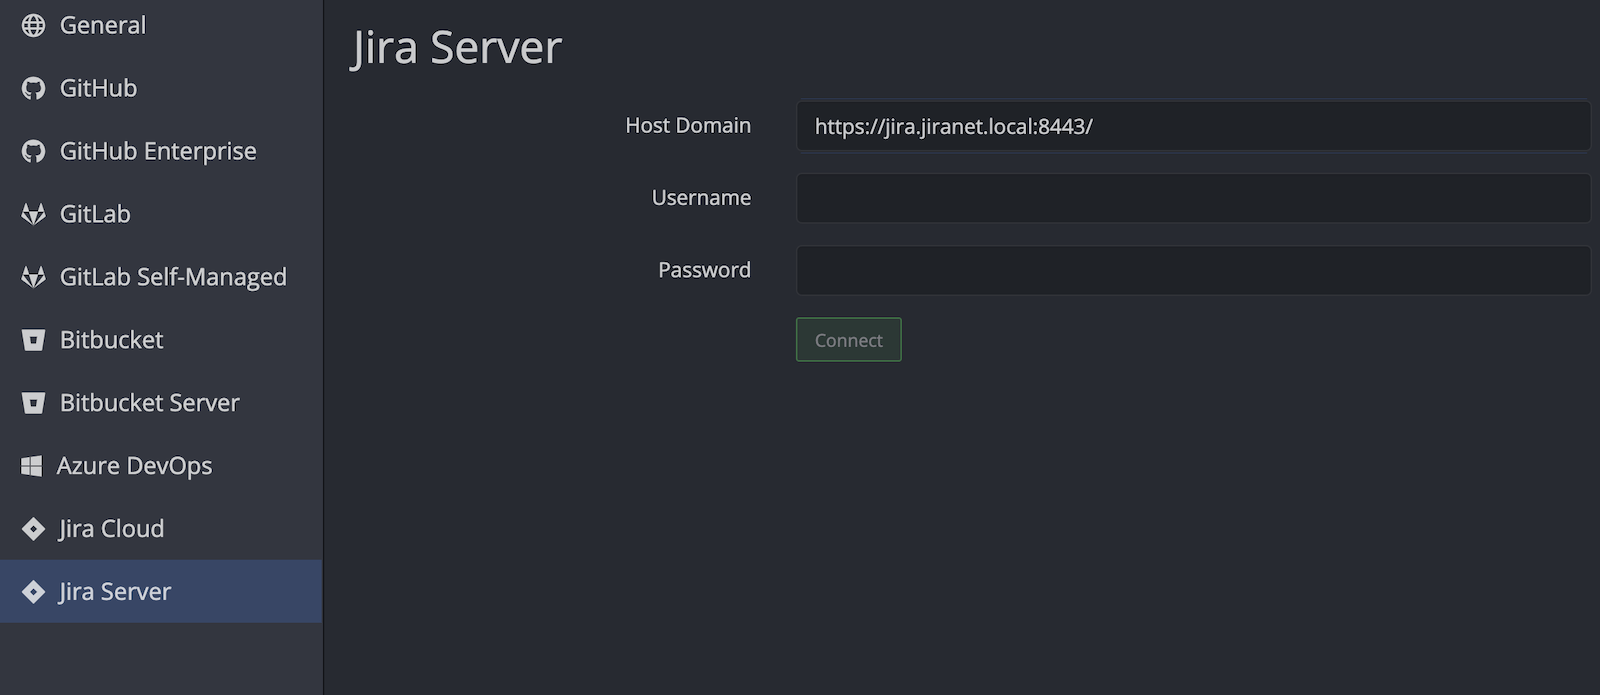
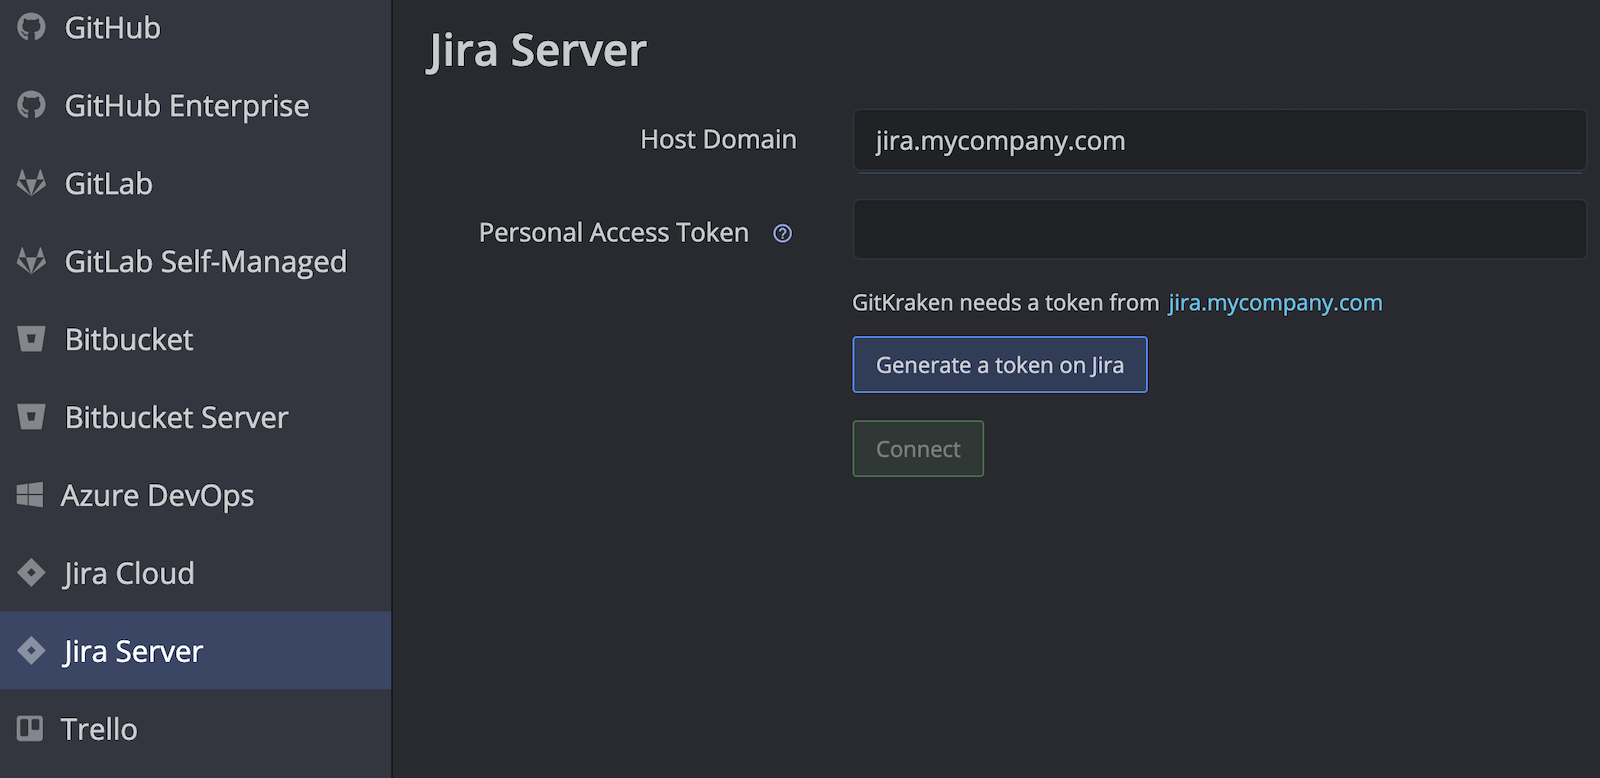
Docs update for 8.9
- Update Jira connection to use PAT
- Include section for Team Overview (unfinished)

diff --git a/gitkraken-client/workspaces.md b/gitkraken-client/workspaces.md
@@ -117,4 +117,39 @@ Instead of hunting for these pieces of information separately, you can get a hol
     </p>
 </div>
 
+## Team Overview
 
+On a [Team workspace](/gitkraken-client/workspaces/#workspace-type), there is now a Teams Workspace section. This view shows all pull requests and issues for the repositories in your Workspace - giving you a high level view of your teams' coding efforts. 
+
+<img src="/wp-content/uploads/team-overview.png" srcset="/wp-content/uploads/team-overview@2x.png" class="img-bordered img-responsive center">
+
+### Team Pull Requests 
+
+The Team Pull Requests sections has the following columns:
+
+* Last Updated 
+* PR title with link to open the pull request in the hosting provider
+* PR Author
+* Repo name with link to open the repo in GitKraken Client
+* Review status
+* PR status
+  * Shows status for “Draft” or “At Risk” pull requests
+* Checks 
+* Lines added/removed
+* PR branch
+  * Double click to check out directly in GitKraken Client
+* GitHub.com Workspaces Only:
+  * Shortcut to open the Pull Request Panel
+  * Filter by assignee or author
+
+### Team Issues 
+
+Team Issues will show all GitHub Issues, GitLab Issues, Jira Cloud Issues, Jira Server, or Trello cards associated with the repo. 
+
+<img src="/wp-content/uploads/team-issues-switch.png" srcset="/wp-content/uploads/team-issues-switch@2x.png" class="img-bordered img-responsive center">
+
+<div class='callout callout--warning'>
+    <p>
+        <strong>Note:</strong> This Team Overview section is in Preview mode, and we’d love to hear your thoughts and feedback. Just click on the “Provide feedback on this view” prompt in the upper left of the Overview page to tell us what you think.
+    </p>
+</div>

diff --git a/gitkraken-client/jira-server.md b/gitkraken-client/jira-server.md
@@ -29,11 +29,11 @@ Set up the integration from the ISSUES pane in the left panel or from <kbd><i>Pr
 
 <img src="/wp-content/uploads/choose-boards-jira-server-integration.png" srcset="/wp-content/uploads/choose-boards-jira-server-integration@2x.png" class="img-bordered img-responsive center">
 
-Enter the Host Domain URL and the username and password you use to log into your Jira Server account.
+Enter the Host Domain URL and a Personal Access Token generated from Jira Server.
 
 <img src="/wp-content/uploads/connect-jira-server-integration.png" srcset="/wp-content/uploads/connect-jira-server-integration@2x.png" class="img-bordered img-responsive center">
 
-With the correct username and password, and with a successful network connection to your Jira Server instance, the app should connect.
+With a successful network connection to your Jira Server instance, the app will connect.
 
 <img src="/wp-content/uploads/connected-jira-integration.png" srcset="/wp-content/uploads/connected-jira-integration@2x.png" class="img-bordered img-responsive center">
 
